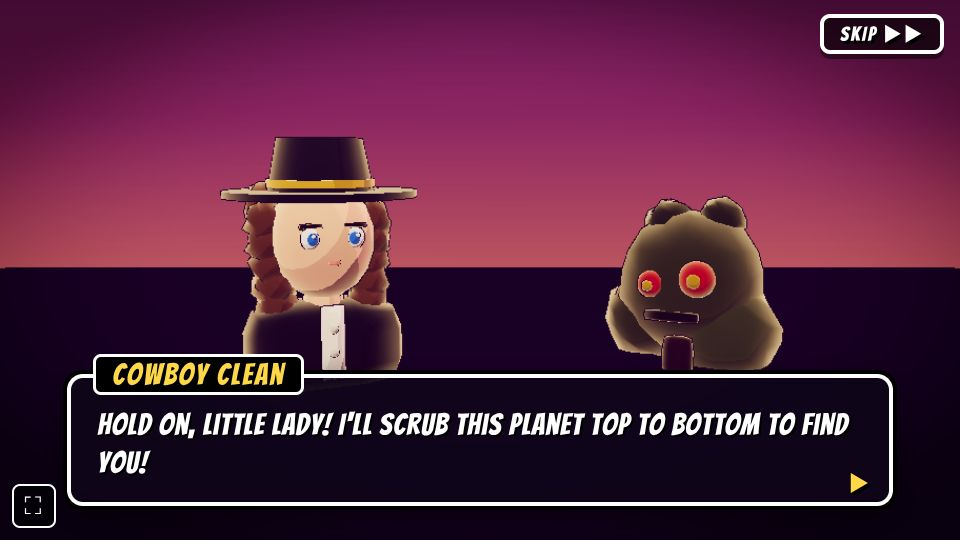
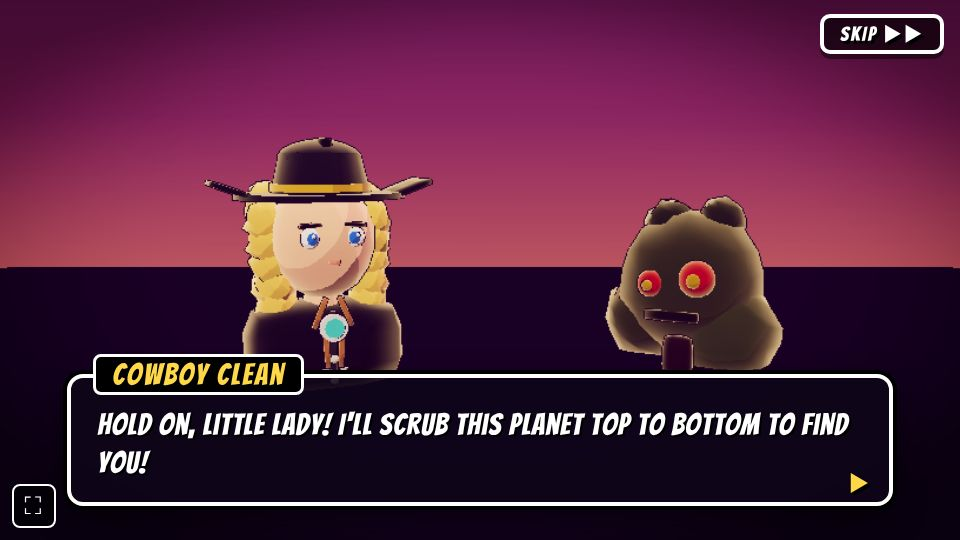
Fix Cowboy Clean cutscene bust: cowboy hat, blonde curls, bolo tie
The bust had a straight-sided crown on a flat round brim (pilgrim hat), a cream
"collar opening" box that read as a white stripe down the shirt, and brown hair.
Now: dented crown with curled brim, dark button seam, blonde curls, bolo tie.

Claude-Session: https://claude.ai/code/session_01WPEpb8xpyWekuGGibVkAmR

diff --git a/game3d/render/busts.js b/game3d/render/busts.js
@@ -7,21 +7,33 @@ import { createToon, makeOutline } from './materials.js';
 // rebuilt from merged primitives. Cowboy Clean follows the standing art rules (PLAN 4.2): black shirt, hat, long curly
 // hair, bare face, blue eyes. Each bust faces +z and is about 2 units tall, origin at the bottom of the chest.
 // Returns { group, mesh, mat, name }; the stage bobs the group while the character talks.
-const SKIN = 0xffccaa;
+const SKIN = 0xffccaa, HAIR = 0xe6c15a, HAIR2 = 0xf0cd68;   // Cowboy Clean's curls are blonde
 
 function cowboyClean(b) {
   b.box(1.5, 0.9, 0.8, 0x15151a, { p: [0, 0.35, 0], radius: 0.3 });                        // black shirt, shoulders
-  b.box(0.22, 0.7, 0.05, 0xf3efe6, { p: [0, 0.45, 0.4], ao: 0 });                          // collar opening
-  for (let i = 0; i < 3; i++) b.sphere(0.04, 0xd9d4c8, { p: [0, 0.15 + i * 0.22, 0.43], ao: 0 });  // buttons
+  b.box(0.06, 0.7, 0.04, 0x2a2a32, { p: [0, 0.4, 0.4], ao: 0 });                            // button placket: a dark seam, never a white strip
+  for (let i = 0; i < 3; i++) b.sphere(0.04, 0xd9d4c8, { p: [0, 0.1 + i * 0.2, 0.43], ao: 0 });  // buttons
+  // Bolo tie: a tan leather cord hung in a V from the collar, a silver-ringed turquoise slide, and two tails with silver tips.
+  for (const sx of [-1, 1]) {
+    b.box(0.05, 0.3, 0.04, 0x9a6a38, { p: [sx * 0.12, 0.74, 0.42], r: [0, 0, sx * 0.4], ao: 0 });              // cord, neck to slide
+    b.box(0.05, 0.36, 0.04, 0x9a6a38, { p: [sx * 0.07, 0.4, 0.43], r: [0, 0, sx * -0.06], ao: 0 });            // cord tail
+    b.cone(0.035, 0.07, 0xd0d4da, { p: [sx * 0.09, 0.17, 0.43], r: [0, 0, Math.PI + sx * 0.06], ao: 0 });      // silver tip
+  }
+  b.cyl(0.13, 0.13, 0.05, 0xd0d4da, { p: [0, 0.6, 0.44], r: [Math.PI / 2, 0, 0], seg: 16, ao: 0 });            // slide: silver ring
+  b.cyl(0.09, 0.09, 0.06, 0x2fc4c0, { p: [0, 0.6, 0.45], r: [Math.PI / 2, 0, 0], seg: 16, ao: 0 });            // slide: turquoise stone
   b.cyl(0.18, 0.2, 0.3, SKIN, { p: [0, 0.85, 0.02], ao: 0.1 });                            // neck
   b.sphere(0.55, SKIN, { p: [0, 1.4, 0.05], s: [0.92, 1.05, 0.95], jitter: 0.01 });         // head
   eyes(b, { y: 1.44, z: 0.5, gap: 0.2, r: 0.09, pupil: 0x2f6fd6, pr: 0.6, look: 0.3, brow: 0.05 });
   b.box(0.1, 0.05, 0.04, 0xd98a7a, { p: [0, 1.22, 0.52], ao: 0 });                          // smile
-  for (const sx of [-1, 1]) for (let i = 0; i < 5; i++) b.sphere(0.2, 0x5a3a24, { p: [sx * (0.5 - i * 0.015), 1.55 - i * 0.2, -0.05 + i * 0.01], jitter: 0.06, ao: 0.1 });   // long curls
-  for (let i = 0; i < 6; i++) b.sphere(0.22, 0x6a4529, { p: [-0.45 + i * 0.18, 1.7, -0.25], jitter: 0.06 });
-  b.cyl(0.9, 0.9, 0.06, 0x18181c, { p: [0, 1.82, 0.05], seg: 20, ao: 0 });                  // hat brim
-  b.cyl(0.4, 0.5, 0.5, 0x1f1f25, { p: [0, 2.08, 0.05], seg: 16 });                          // crown
-  b.cyl(0.505, 0.505, 0.07, 0xc9a227, { p: [0, 1.92, 0.05], seg: 16, ao: 0 });               // gold hat band
+  for (const sx of [-1, 1]) for (let i = 0; i < 5; i++) b.sphere(0.2, HAIR, { p: [sx * (0.5 - i * 0.015), 1.55 - i * 0.2, -0.05 + i * 0.01], jitter: 0.06, ao: 0.1 });   // long curls
+  for (let i = 0; i < 6; i++) b.sphere(0.22, HAIR2, { p: [-0.45 + i * 0.18, 1.7, -0.25], jitter: 0.06 });
+  // Cowboy hat, not a pilgrim hat: a low crown with a dent pinched into the top, and a brim whose sides curl up.
+  b.cyl(0.8, 0.8, 0.05, 0x18181c, { p: [0, 1.8, 0.05], seg: 20, s: [1, 1, 0.8], ao: 0 });  // brim centre
+  for (const sx of [-1, 1]) b.box(0.34, 0.05, 0.6, 0x18181c, { p: [sx * 0.85, 1.87, 0.05], r: [0, 0, sx * 0.35], ao: 0 });   // brim sides curl up
+  b.cyl(0.38, 0.47, 0.38, 0x1f1f25, { p: [0, 2.0, 0.05], seg: 16 });                          // crown
+  b.sphere(0.4, 0x1f1f25, { p: [0, 2.14, 0.05], s: [1, 0.45, 0.95] });                         // rounded top
+  b.box(0.1, 0.1, 0.62, 0x121216, { p: [0, 2.28, 0.05], ao: 0 });                              // crease down the middle of the crown
+  b.cyl(0.475, 0.475, 0.07, 0xc9a227, { p: [0, 1.88, 0.05], seg: 16, ao: 0 });                // gold hat band
 }
 function missCowboy(b) {
   b.box(1.4, 0.8, 0.75, 0xe84393, { p: [0, 0.35, 0], radius: 0.3 });                        // pink shirt

diff --git a/remake/PLAN.md b/remake/PLAN.md
@@ -238,7 +238,7 @@ costs little to render.
 
 ### 4.2 Standing art rules (owner feedback after stage 1)
 
-- **Cowboy Clean's look:** black button-up shirt (visible buttons and collar), big gold
+- **Cowboy Clean's look:** black button-up shirt (visible buttons and collar), bolo tie (cord, silver and turquoise slide), big gold
   oval belt buckle, black bell-bottom jeans flaring over black boots, cowboy hat, long
   curly hair (as built), an ordinary uncovered face with blue eyes. No bandana, no vest,
   no goggles, no tanks or pack on his back at the start. Because the outfit is black,
